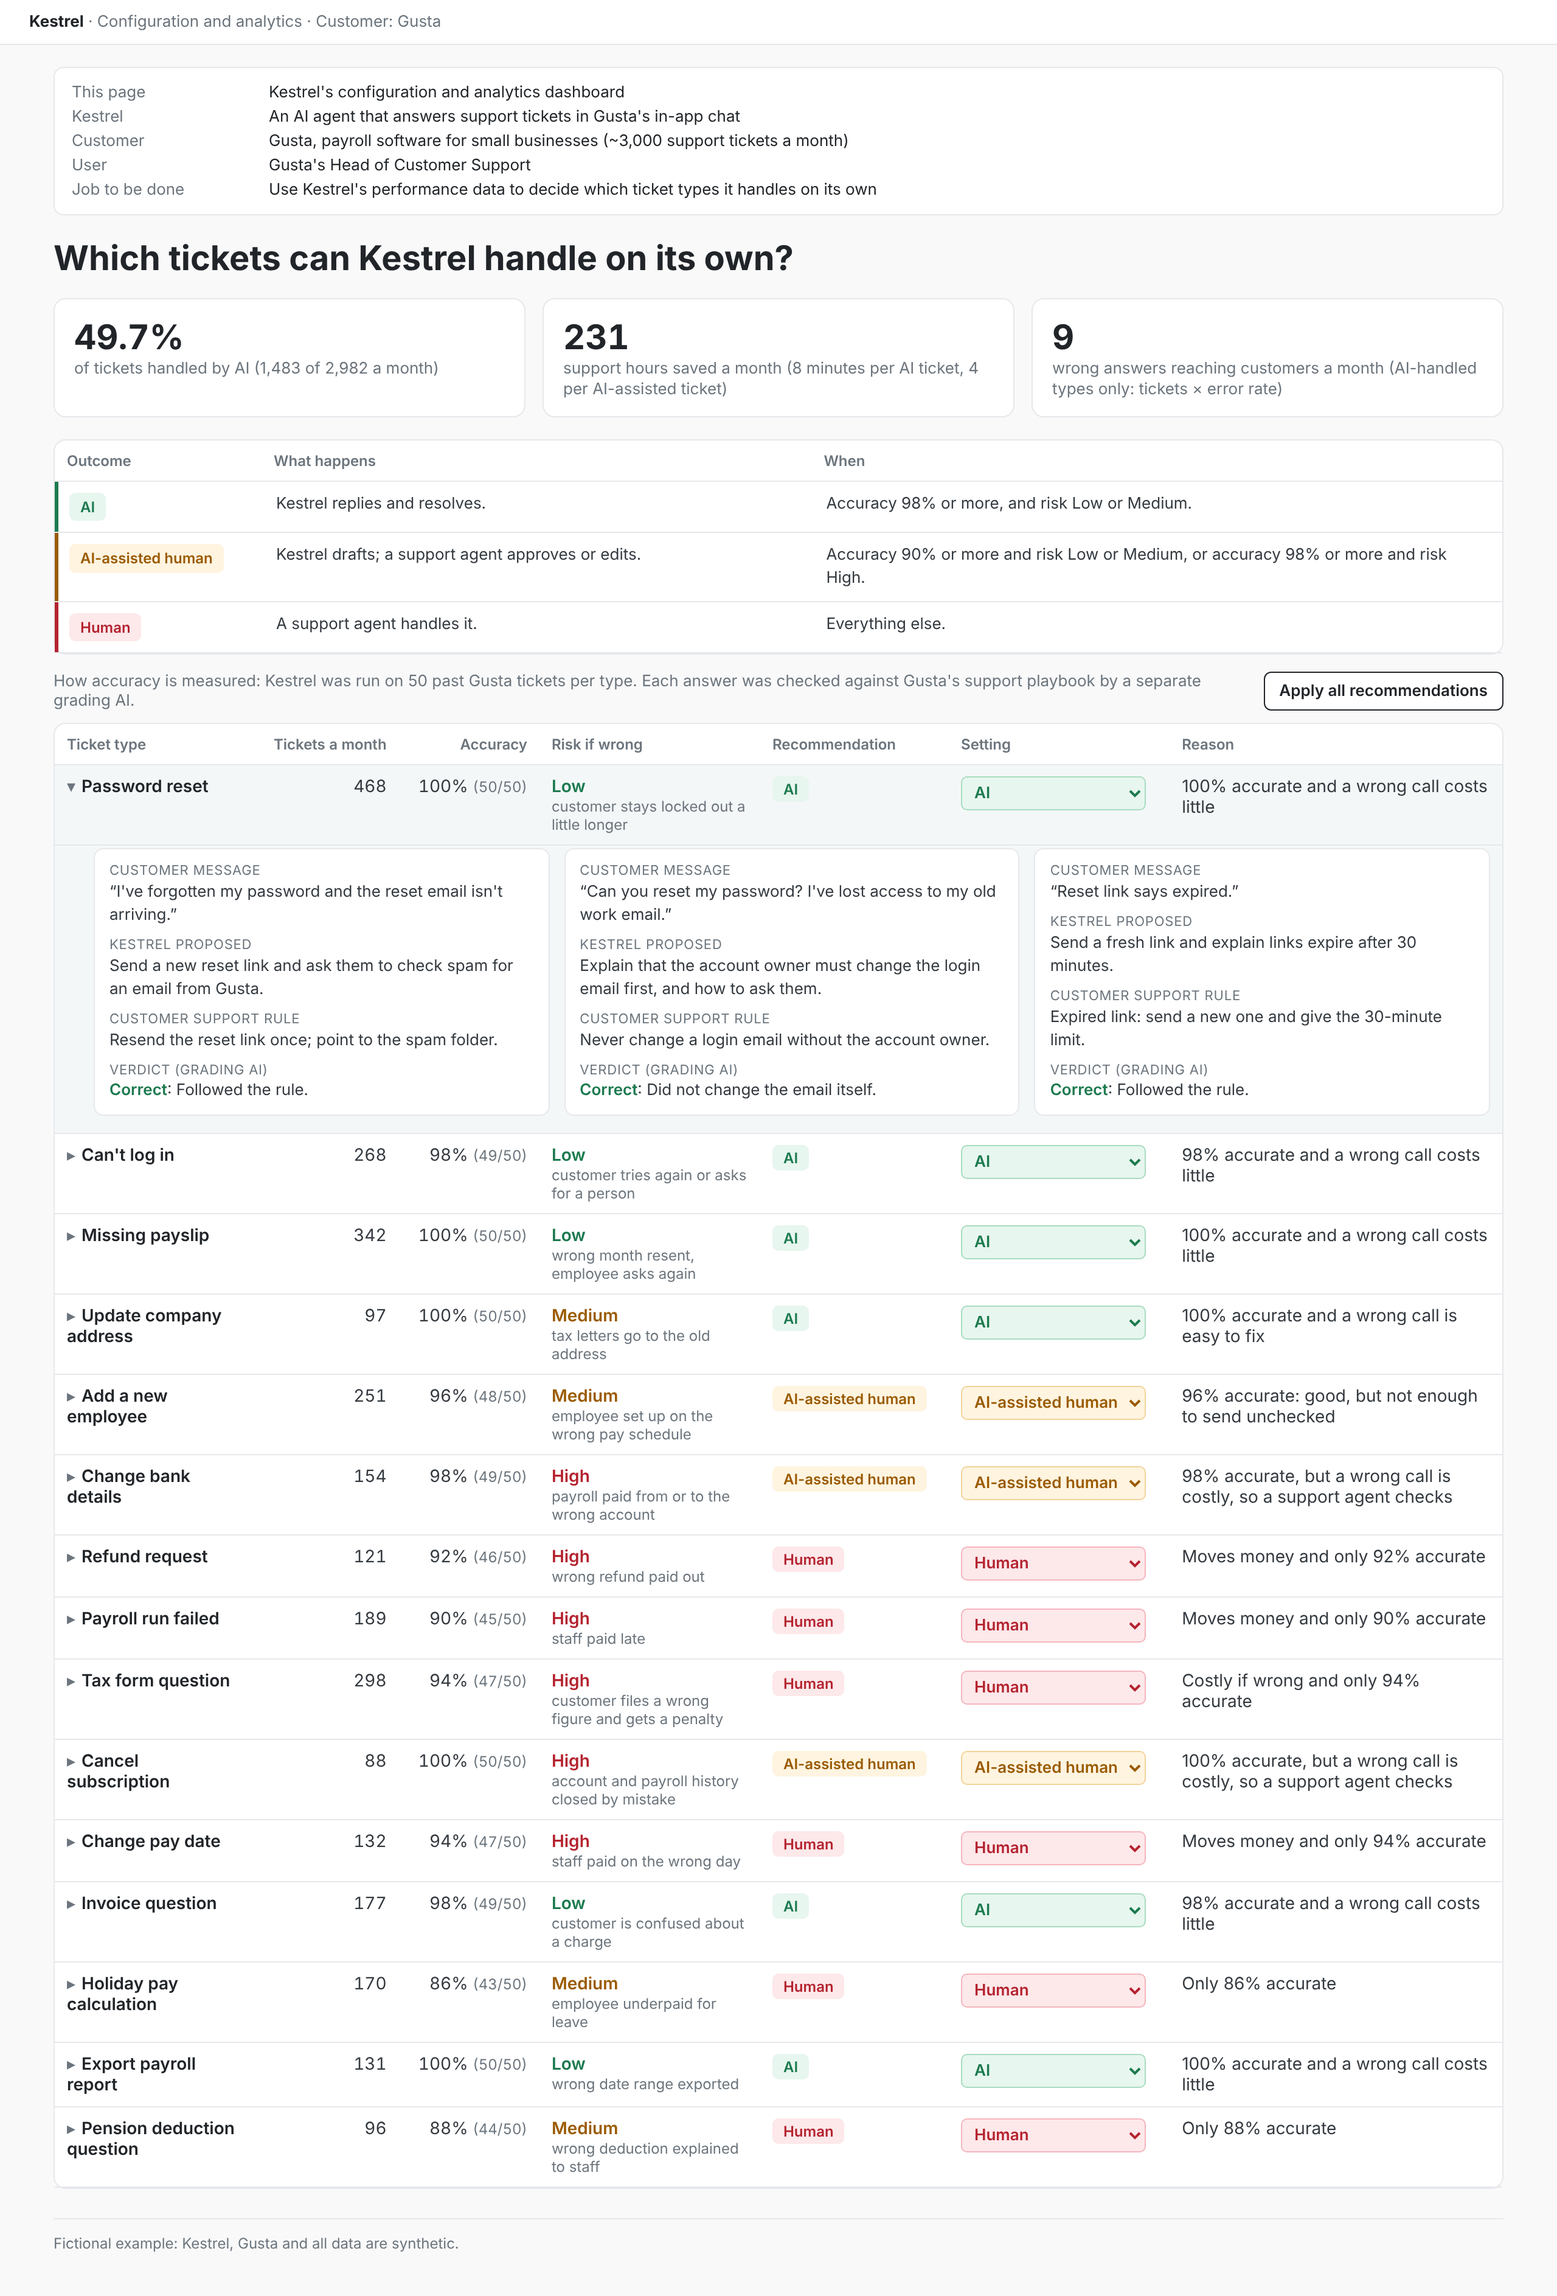
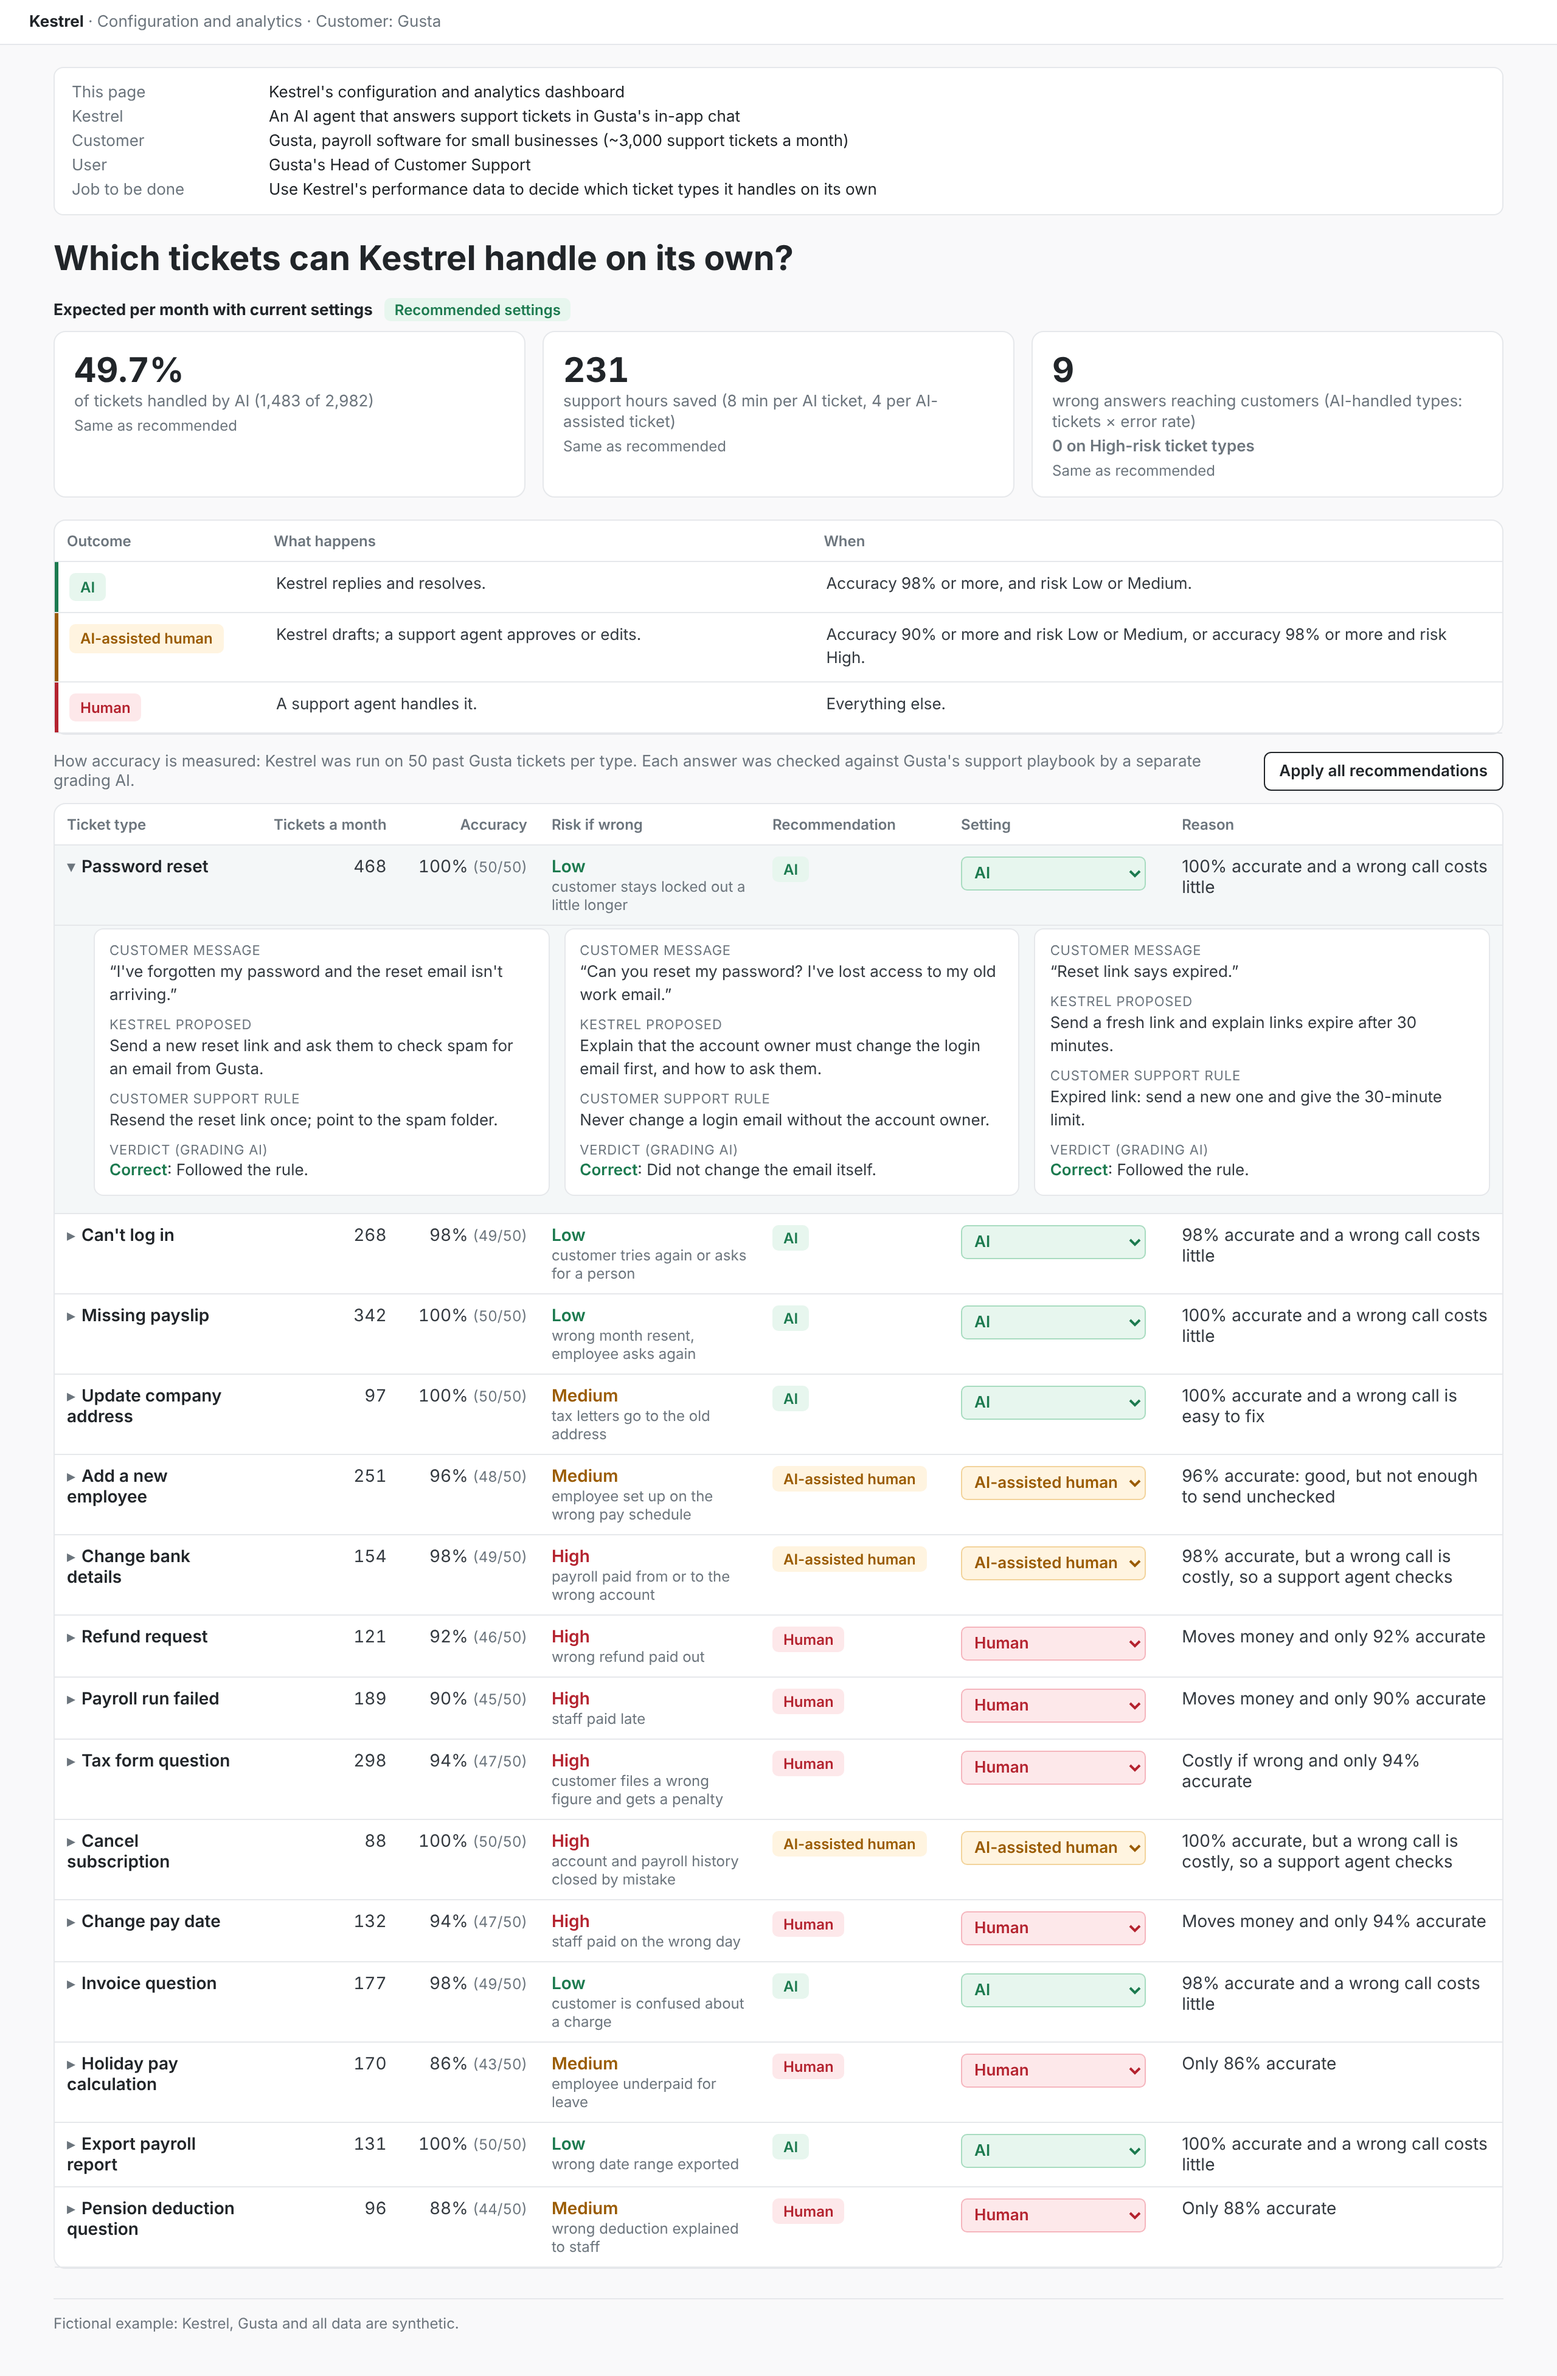
Dashboard: expected per month with current settings, deltas vs recommended, wrong answers on High-risk types
Claude-Session: https://claude.ai/code/session_016JoguXTxkWcj5knaYbAtMZ

diff --git a/examples/kestrel/run/build/mvp.html b/examples/kestrel/run/build/mvp.html
@@ -12,7 +12,12 @@ main{max-width:1240px;margin:0 auto;padding:18px 24px 36px}
 .header{display:grid;grid-template-columns:150px 1fr;gap:4px 12px;font-size:13px;margin:0 0 18px;padding:12px 14px;background:#fff;border:1px solid var(--line);border-radius:8px}
 .header dt{color:var(--mute)}.header dd{margin:0;color:var(--head)}
 h1{font-size:28px;color:var(--head);margin:0 0 16px}
+.dash-head{display:flex;align-items:center;gap:10px;margin:0 0 8px;font-size:13px;color:var(--mute)}
+.dash-head b{color:var(--head);font-size:13px}
+.state{font-size:12px;font-weight:600;padding:2px 8px;border-radius:5px}.state-rec{background:var(--ai-bg);color:var(--ai)}.state-over{background:var(--mix-bg);color:var(--mix)}
 .summary{display:grid;grid-template-columns:repeat(3,1fr);gap:14px;margin-bottom:18px}
+.delta{font-size:12px;font-weight:600;margin-top:4px}.d-up{color:var(--ai)}.d-bad{color:var(--hum)}.d-none{color:var(--mute);font-weight:400}
+.hi{display:block;font-size:13px;font-weight:600;margin-top:4px}.hi-ok{color:var(--ai)}.hi-bad{color:var(--hum)}
 .card{background:#fff;border:1px solid var(--line);border-radius:10px;padding:14px 16px}
 .card b{display:block;font-size:28px;color:var(--head);font-variant-numeric:tabular-nums}
 .card span{color:var(--mute);font-size:13px}
@@ -53,6 +58,7 @@ footer{margin-top:24px;color:var(--mute);font-size:12px;border-top:1px solid var
 <main>
 <dl class="header" id="header"></dl>
 <h1 id="headline"></h1>
+<div class="dash-head" id="dashHead"></div>
 <div class="summary" id="summary"></div>
 <div class="panel rules" id="rules"></div>
 <div class="bar"><p class="measure" id="measure"></p><button class="apply" id="applyAll" onclick="applyAll()">Apply all recommendations</button></div>
@@ -74,11 +80,11 @@ function recommend(t, n){
 // settings: one mode per type (defaults to the recommendation)
 function summary(d, settings){
   const n = d.test_tickets_per_type, all = d.types.reduce((s, t) => s + t.tickets, 0);
-  let ai = 0, assisted = 0, wrong = 0;
+  let ai = 0, assisted = 0, wrong = 0, wrongHigh = 0;
   d.types.forEach((t, i) => { const m = settings[i];
-    if (m === 'resolve'){ ai += t.tickets; wrong += t.tickets * (1 - accuracy(t, n)); }
+    if (m === 'resolve'){ const w = t.tickets * (1 - accuracy(t, n)); ai += t.tickets; wrong += w; if (t.risk === 'High') wrongHigh += w; }
     if (m === 'draft') assisted += t.tickets; });
-  return {all, ai, assisted, aiShare: ai / all, hours: (ai * d.minutes_ai + assisted * d.minutes_assisted) / 60, wrong};
+  return {all, ai, assisted, aiShare: ai / all, hours: (ai * d.minutes_ai + assisted * d.minutes_assisted) / 60, wrong, wrongHigh};
 }
 function aboveRecommended(t, n, mode){ return RANK[mode] > RANK[recommend(t, n)]; }
 if (typeof module !== 'undefined') module.exports = {accuracy, recommend, summary, aboveRecommended, RANK};
@@ -108,10 +114,15 @@ function staticParts(){
 }
 function render(){
   const n = D.test_tickets_per_type, s = summary(D, settings), K = D.product;
+  const recSet = D.types.map(t => recommend(t, n)), r = summary(D, recSet), overrides = settings.filter((m, i) => m !== recSet[i]).length;
+  const delta = (now, base, unit, goodUp) => { const d = now - base; if (Math.abs(d) < 0.05) return `<div class="delta d-none">Same as recommended</div>`;
+    const good = goodUp ? d > 0 : d < 0; return `<div class="delta ${good ? 'd-up' : 'd-bad'}">${d > 0 ? '+' : '−'}${unit(Math.abs(d))} vs recommended</div>`; };
+  document.getElementById('dashHead').innerHTML = `<b>Expected per month with current settings</b><span id="state" class="state ${overrides ? 'state-over">' + overrides + (overrides === 1 ? ' override' : ' overrides') : 'state-rec">Recommended settings'}</span>`;
   document.getElementById('summary').innerHTML = `
-    <div class="card"><b id="sumShare">${(s.aiShare * 100).toFixed(1)}%</b><span>of tickets handled by AI (${fmt(s.ai)} of ${fmt(s.all)} a month)</span></div>
-    <div class="card"><b id="sumHours">${fmt(s.hours)}</b><span>support hours saved a month (${D.minutes_ai} minutes per AI ticket, ${D.minutes_assisted} per AI-assisted ticket)</span></div>
-    <div class="card"><b id="sumWrong">${fmt(s.wrong)}</b><span>wrong answers reaching customers a month (AI-handled types only: tickets × error rate)</span></div>`;
+    <div class="card"><b id="sumShare">${(s.aiShare * 100).toFixed(1)}%</b><span>of tickets handled by AI (${fmt(s.ai)} of ${fmt(s.all)})</span>${delta(s.aiShare * 100, r.aiShare * 100, v => v.toFixed(1) + ' pts', true)}</div>
+    <div class="card"><b id="sumHours">${fmt(s.hours)}</b><span>support hours saved (${D.minutes_ai} min per AI ticket, ${D.minutes_assisted} per AI-assisted ticket)</span>${delta(s.hours, r.hours, v => fmt(v) + ' hours', true)}</div>
+    <div class="card"><b id="sumWrong">${fmt(s.wrong)}</b><span>wrong answers reaching customers (AI-handled types: tickets × error rate)</span>
+      <span id="sumHigh" class="hi ${s.wrongHigh >= 0.5 ? 'hi-bad">' + fmt(s.wrongHigh) : 'hi-ok">0'} on High-risk ticket types</span>${delta(s.wrong, r.wrong, v => fmt(v), false)}</div>`;
   const rows = D.types.map((t, i) => {
     const rec = recommend(t, n), set = settings[i], isOpen = open.has(i), p = Math.round(accuracy(t, n) * 100);
     const over = set !== rec ? `<div><span class="tag">Overridden</span></div>` : '';

diff --git a/examples/kestrel/run/build/check_mvp.js b/examples/kestrel/run/build/check_mvp.js
@@ -13,6 +13,7 @@ const srv = http.createServer((q, r) => { const f = path.join(root, decodeURICom
   t('header names the dashboard', (await txt('#header')).includes("Kestrel's configuration and analytics dashboard"));
   t('headline', (await txt('#headline')) === 'Which tickets can Kestrel handle on its own?');
   t('summary: 49.7%, 231 hours, 9 wrong answers', (await txt('#sumShare')) === '49.7%' && (await txt('#sumHours')) === '231' && (await txt('#sumWrong')) === '9');
+  t('dashboard: recommended settings, 0 on High-risk types', (await txt('#state')) === 'Recommended settings' && (await txt('#sumHigh')) === '0 on High-risk ticket types');
   t('rules before the table', await p.evaluate(() => !!(document.querySelector('#rules').compareDocumentPosition(document.querySelector('#types')) & Node.DOCUMENT_POSITION_FOLLOWING)));
   t('15 rows, Password reset expanded by default', (await p.$$('tr.row')).length === 15 && (await p.$$('tr.detail')).length === 1 && (await txt('tr.row.open')).includes('Password reset'));
   const det = await txt('tr.detail');
@@ -23,6 +24,7 @@ const srv = http.createServer((q, r) => { const f = path.join(root, decodeURICom
   const row = await txt('tr.row[data-i="6"]');
   t('override shows Overridden and the warning', row.includes('Overridden') && row.includes('Above recommended: 92% accurate on a High-risk type'));
   t('summary updates: 53.8%, 19 wrong answers', (await txt('#sumShare')) === '53.8%' && (await txt('#sumWrong')) === '19');
+  t('dashboard updates: 1 override, 10 on High-risk types, deltas shown', (await txt('#state')) === '1 override' && (await txt('#sumHigh')) === '10 on High-risk ticket types' && (await txt('#summary')).includes('+10 vs recommended'));
   await p.selectOption('select[data-i="0"]', 'human');
   const row0 = await txt('tr.row[data-i="0"]');
   t('lowering autonomy: Overridden, no warning', row0.includes('Overridden') && !row0.includes('Above recommended'));

diff --git a/examples/kestrel/run/build/test_mvp.js b/examples/kestrel/run/build/test_mvp.js
@@ -24,6 +24,8 @@ t('wrong answers: 268 × 2% + 177 × 2% = 8.9', Math.abs(s.wrong - 8.9) < 0.001,
 const o = rec.slice(); o[6] = 'resolve'; const so = C.summary(D, o);
 t('override Refund request to AI is above recommended', C.aboveRecommended(D.types[6], n, 'resolve'));
 t('override adds 121 AI tickets and 9.7 wrong answers', so.ai === 1604 && Math.abs(so.wrong - (8.9 + 121 * 0.08)) < 0.001, `${so.ai}, ${so.wrong.toFixed(2)}`);
+t('recommended settings: 0 wrong answers on High-risk types', s.wrongHigh === 0, s.wrongHigh);
+t('Refund request on AI: 9.7 wrong answers on High-risk types', Math.abs(so.wrongHigh - 121 * 0.08) < 0.001, so.wrongHigh.toFixed(2));
 t('lowering autonomy is not a warning', !C.aboveRecommended(D.types[0], n, 'human'));
 const text = JSON.stringify(D) + html;
 t('no em dashes', !text.includes('—'));

diff --git a/README.md b/README.md
@@ -17,10 +17,10 @@ Kestrel's configuration and analytics dashboard, for Gusta's Head of Customer Su
 
 | Part | What it shows |
 |---|---|
-| Three numbers | **49.7%** of tickets handled by AI (1,483 of 2,982 a month) · **231** support hours saved a month (8 minutes per AI ticket, 4 per AI-assisted ticket) · **9** wrong answers reaching customers a month |
+| Three numbers | **49.7%** of tickets handled by AI (1,483 of 2,982 a month) · **231** support hours saved a month (8 minutes per AI ticket, 4 per AI-assisted ticket) · **9** wrong answers reaching customers a month, **0** on High-risk ticket types |
 | Decision rules | **AI** (98%+ accurate, risk Low or Medium) · **AI-assisted human** (90%+ and risk Low or Medium, or 98%+ and risk High) · **Human** (everything else) |
 | The table | 15 ticket types in in-app chat: tickets a month, accuracy, risk if wrong, Kestrel's recommendation, a setting Gusta controls, reason |
-| Overrides | Changing a setting shows "Overridden", warns when it gives Kestrel more autonomy than recommended, and updates the three numbers live |
+| Overrides | Changing a setting shows "Overridden", warns when it gives Kestrel more autonomy than recommended, and updates the three numbers live, with the change against the recommendation |
 | Examples | 3 tickets under each row: customer message, what Kestrel proposed, the customer support rule, and the grading AI's verdict |
 
 Accuracy comes from running Kestrel on 50 past tickets per type, each checked against Gusta's support playbook by a separate grading AI. Every number on the page is calculated from [the data](examples/kestrel/run/data/ticket_types.json) and checked by [tests](examples/kestrel/run/build/test_mvp.js) on every push.
